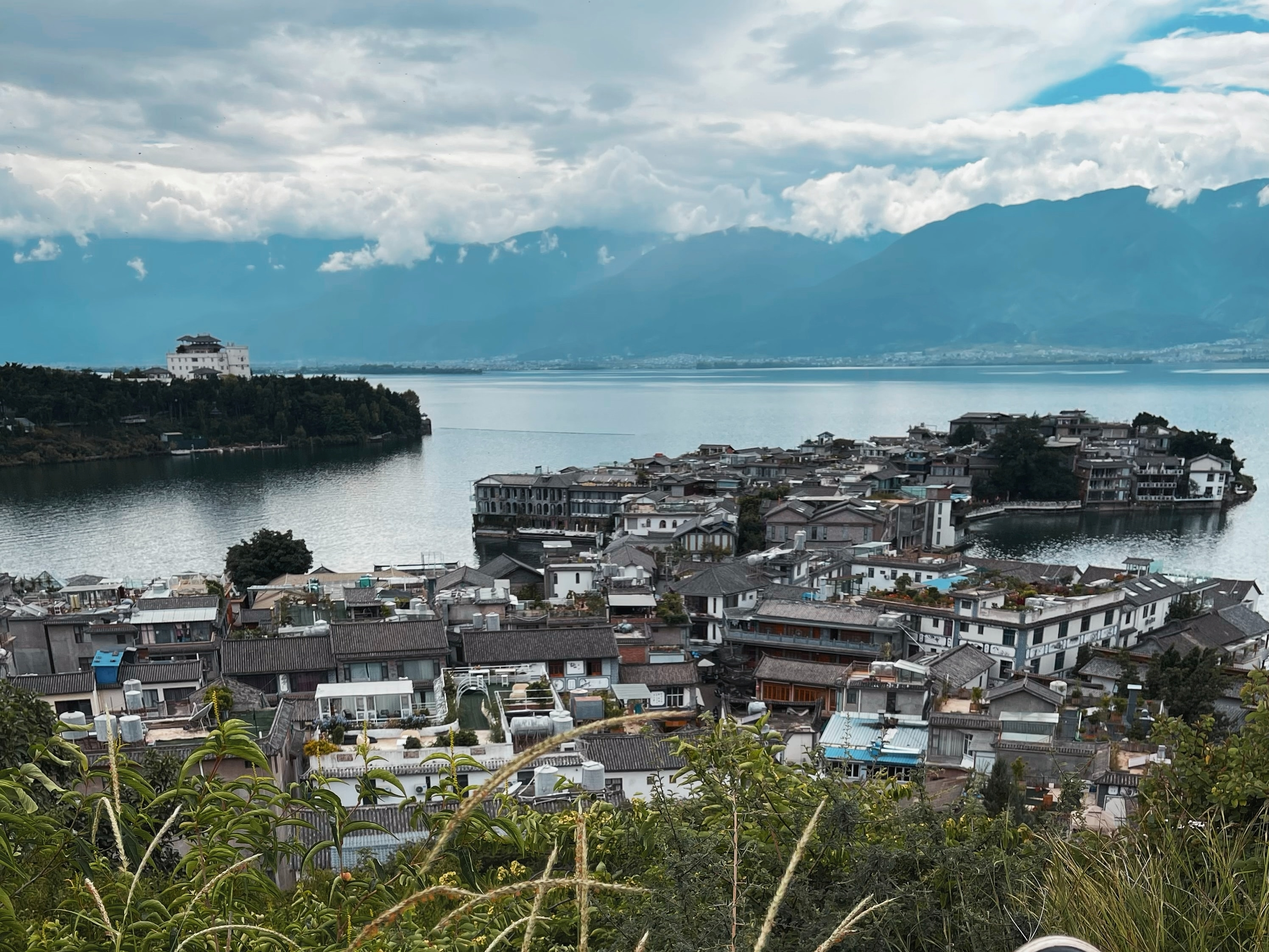
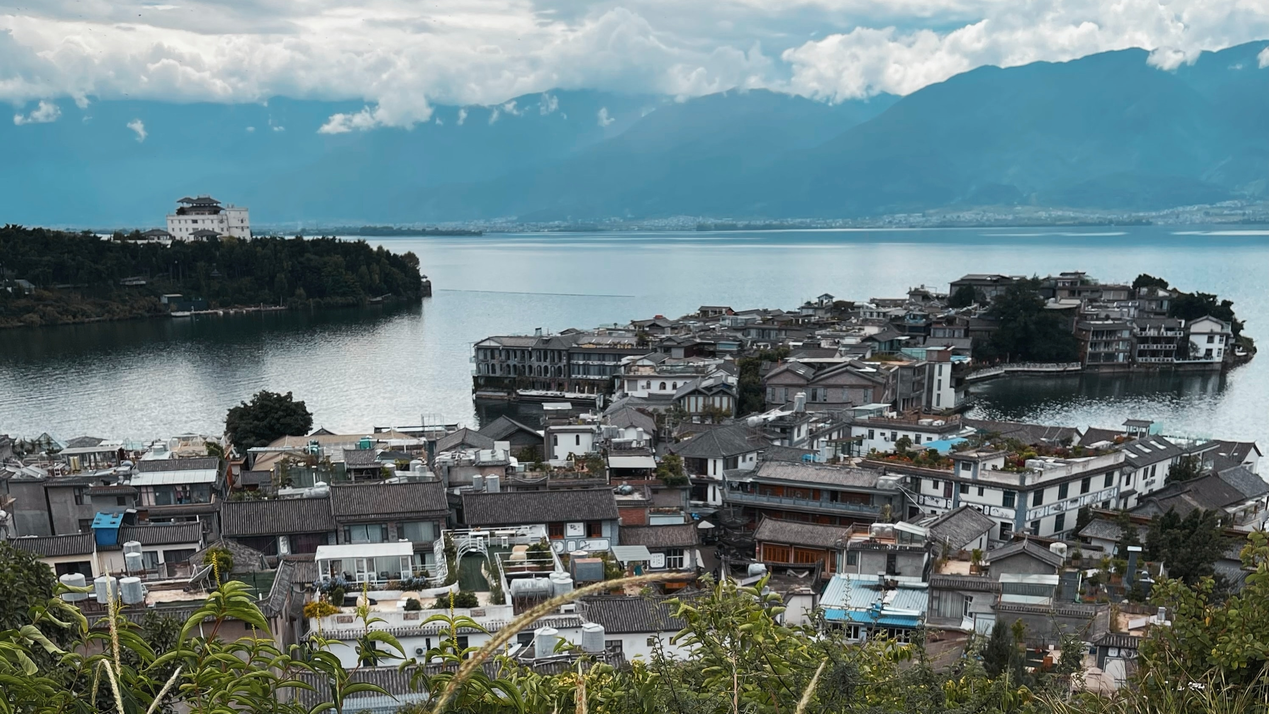
修改图片比例

diff --git a/index.html b/index.html
@@ -56,7 +56,7 @@
                     <div class="home-main-btn"><a href="Diasoira.html">more info</a></div>
                 </div>
                 <div class="home__video">
-                    <img src="images/home/Diaspora.jpg" alt="建筑群体-散居">
+                    <img src="images/home/diaspora.jpg" alt="建筑群体-散居">
                 </div>
             </div>
 
